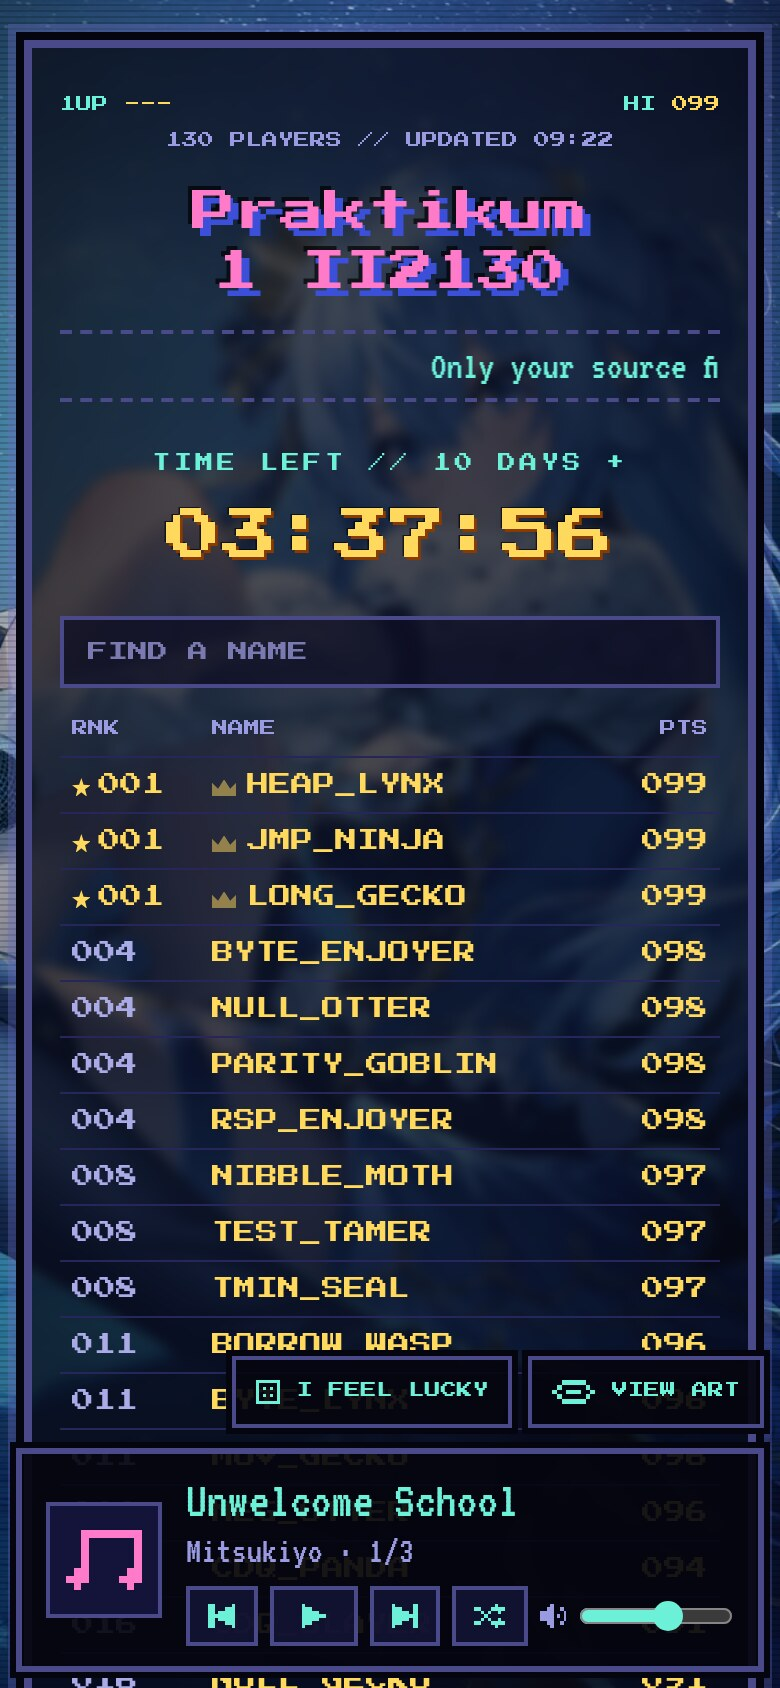
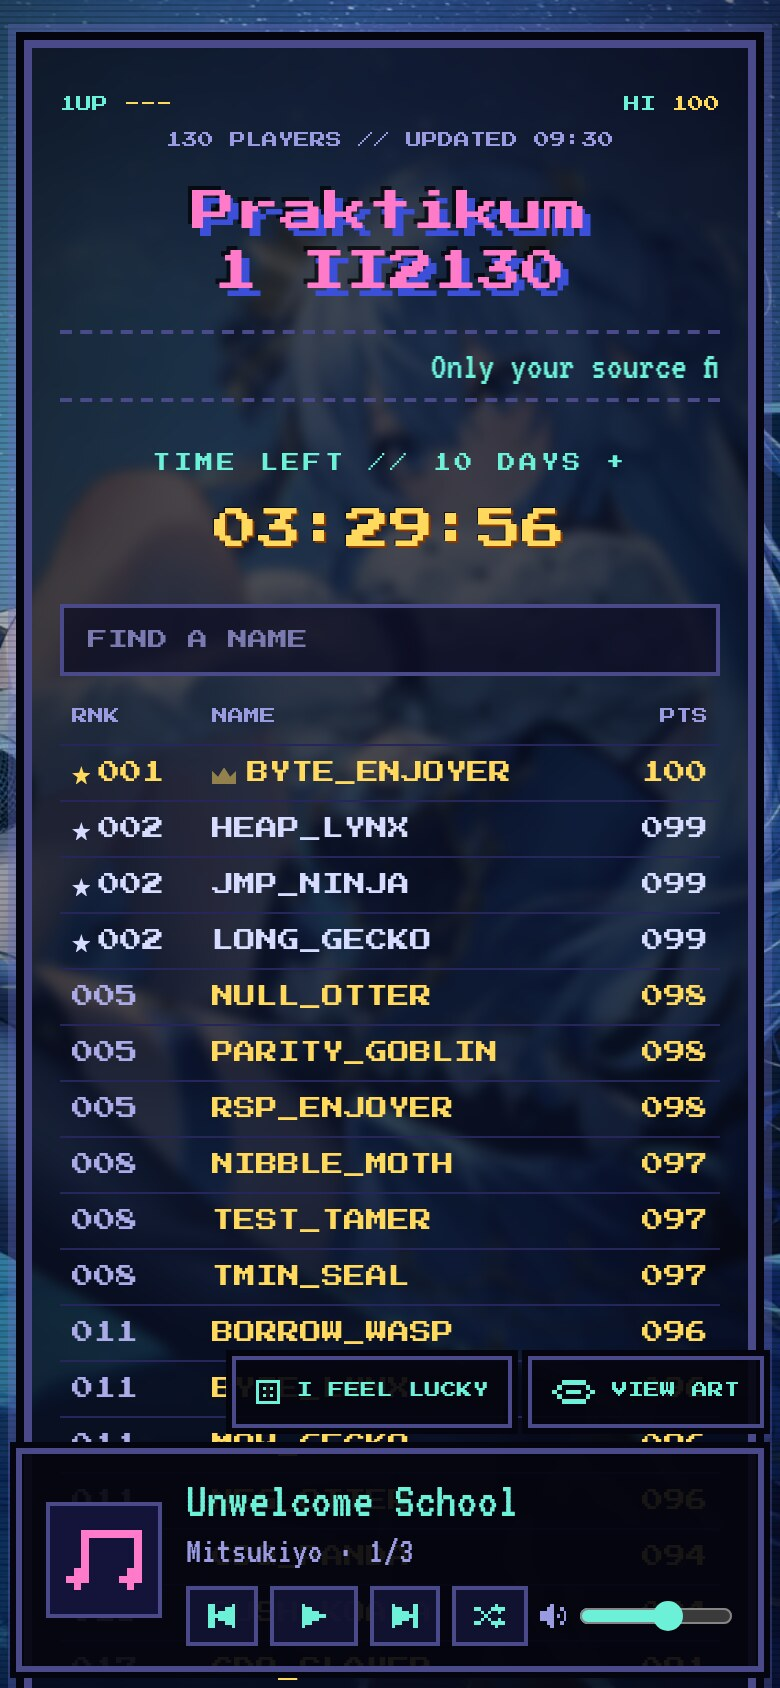
style: size the countdown like the title
Use one --display-size variable for the title and the countdown so they
always render at the same size (58 px on desktop, 22 px at 390 px).
Screenshots are refreshed to match.

diff --git a/frontend/src/styles.css b/frontend/src/styles.css
@@ -12,6 +12,8 @@
   --line: #4a4a8a;
   --muted: #9a9ae0;
   --glass: 0.7;
+  /* Shared by the title and the countdown so both are always the same size. */
+  --display-size: clamp(22px, 4.7vw, 58px);
   color-scheme: dark;
 }
 
@@ -59,7 +61,7 @@ button, input { font: inherit; }
 .hud > span:last-child { text-align: right; }
 .hud b { color: var(--gold); font-weight: 400; text-transform: uppercase; }
 
-h1 { margin: 0 0 14px; text-align: center; font: 400 clamp(22px, 4.7vw, 58px) / 1.35 var(--px); color: var(--pink); text-shadow: 4px 4px 0 #3b4fd8, -2px -2px 0 #000a; text-wrap: balance; overflow-wrap: anywhere; }
+h1 { margin: 0 0 14px; text-align: center; font: 400 var(--display-size) / 1.35 var(--px); color: var(--pink); text-shadow: 4px 4px 0 #3b4fd8, -2px -2px 0 #000a; text-wrap: balance; overflow-wrap: anywhere; }
 
 .marquee { overflow: hidden; white-space: nowrap; border-block: 2px dashed var(--line); padding: 6px 0; margin-bottom: 18px; font: clamp(20px, 2.4vw, 28px) / 1 var(--vt); color: var(--cyan); }
 .marquee span { display: inline-block; padding-left: 100%; animation: marquee 30s linear infinite; }
@@ -67,7 +69,7 @@ h1 { margin: 0 0 14px; text-align: center; font: 400 clamp(22px, 4.7vw, 58px) / 
 
 .timer { display: flex; flex-direction: column; align-items: center; gap: 18px; margin: 26px 0; }
 .timer small { font-size: clamp(9px, 1.4vw, 15px); color: var(--cyan); letter-spacing: 0.2em; text-align: center; }
-.timer b { font: 400 clamp(28px, 7vw, 80px) / 1 var(--px); color: var(--gold); font-variant-numeric: tabular-nums; text-shadow: 0.05em 0.05em 0 #8a3b00, -0.025em -0.025em 0 #000a; white-space: nowrap; }
+.timer b { font: 400 var(--display-size) / 1 var(--px); color: var(--gold); font-variant-numeric: tabular-nums; text-shadow: 0.05em 0.05em 0 #8a3b00, -0.025em -0.025em 0 #000a; white-space: nowrap; }
 .timer i { font-style: normal; }
 .timer.warn b { color: #ffb84d; }
 .timer.warn b i { animation: blink 1s steps(2) infinite; }
